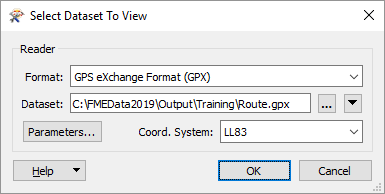
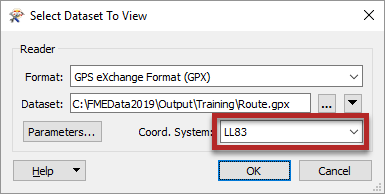
Chapter 5 Ex 4 clarity updates

Changed region(s): [[0.5299, 0.5567, 0.9662, 0.8041]]

diff --git a/DesktopBasic5BestPractice/5.Exercise4.md b/DesktopBasic5BestPractice/5.Exercise4.md
@@ -207,15 +207,15 @@ Also, notice that there are parameters for network costs - we'll be making use o
 ![](./Images/Img5.226.Ex4.SPFInitialRoute.png)
 <br><span style="font-style:italic;font-size:x-small">Map tiles by <a href="https://stamen.com">Stamen Design</a>, under <a href="https://creativecommons.org/licenses/by/3.0">CC-BY-3.0</a>. Data by <a href="http://openstreetmap.org">OpenStreetMap</a>, under <a href="http://creativecommons.org/licenses/by-sa/3.0">CC-BY-SA</a></span>.
 
-Of course, if all has not gone correctly, you must make use of your debugging skills to try and locate the error!
+If you don't see a path like this one, you must make use of your debugging skills to try and locate the error!
 
 
 <br>**8) Add AttributeValueMapper**
 <br>The result looks fine, but there are some things we are still uncertain about: for example, what if the route uses slower, residential roads? We can force the route to prefer arterial routes by applying a different cost to each road feature.
 
-The cost will depend on the road type. In essence, we are mapping road type to cost, and the way to do that is with an AttributeValueMapper transformer.
+The cost will depend on the road type. We need to map road type to cost, and the way to do that is with an AttributeValueMapper transformer.
 
-So, add an AttributeValueMapper transformer to the workspace, between the CompleteRoads feature type and the ShortestPathFinder:Network port:
+Add an AttributeValueMapper transformer to the workspace between the CompleteRoads feature type and the ShortestPathFinder:Network port:
 
 ![](./Images/Img5.227.Ex4.AVMOnCanvas.png)
 
@@ -302,7 +302,7 @@ The route is taking a longer path this time, and I can see a reason why that mig
 <br><br>To explain this, let's say I want to travel from A to B. There is a single residential road feature that starts at A and ends at B, with a route distance of 1.5 kilometres.
 <br><br>There is also a single arterial road feature that starts at A and ends at B. Rather extremely, it loops around the dark side of the moon with a route distance of 768,000 kilometres.
 <br><br>Currently our solution would choose the 768,000 kilometre trip, because it has a cost of "1" compared to the residential route cost of "3"!
-<br><br>Plainly the exercise data here is nowhere near as ridiculous, but it's equally plain that the route might not be the optimum until distance is factored back into the result.
+<br><br>Plainly, the exercise data here is nowhere near as ridiculous, but it's equally plain that the route might not be the optimum until distance is factored back into the result.
 </span>
 </td>
 </tr>
@@ -328,11 +328,11 @@ Re-run the translation to see if it makes a difference:
 ![](./Images/Img5.232.Ex4.DistanceWeighted.png)
 <br><span style="font-style:italic;font-size:x-small">Map tiles by <a href="https://stamen.com">Stamen Design</a>, under <a href="https://creativecommons.org/licenses/by/3.0">CC-BY-3.0</a>. Data by <a href="http://openstreetmap.org">OpenStreetMap</a>, under <a href="http://creativecommons.org/licenses/by-sa/3.0">CC-BY-SA</a></span>.
 
-Yes, it does, proving that the route was longer than it could be. Of course, the expression we've used is again very subjective and could be made more complex to give a better result (we could try a logarithmic scale to see what that produced).
+Yes, it does, proving that the route was longer than necessary. Of course, the expression we've used is subjective and could be made more complex to give a better result. For example, we could try a logarithmic scale instead to see what that produced.
 
 
 <br>**12) Edit AttributeManager**
-<br>Regardless of our expression, there's another last snag to cover... one-way streets. Currently, we have no solution in place to prevent us from driving the wrong direction.
+<br>Regardless of our expression, there's another last problem to investigate: one-way streets. Currently, we have no solution in place to prevent us from driving the wrong direction.
 
 Luckily each one-way street is flagged with an attribute and has its vertices ordered in the direction of permitted travel, so we know which way to avoid. Let's use this information to solve that problem.
 
@@ -373,15 +373,15 @@ Click OK to close that dialog. Back in the previous dialog, double-click where i
 
 Click OK again twice more to close these dialogs.
 
-What we've essentially done is say that if this is a one-way street, set a prohibitively high reverse cost, otherwise just set the usual forward cost.
+Now one-way streets have a prohibitively high reverse cost, while other streets just receive the usual forward cost.
 
 
 <br>**13) Apply Cost**
-<br>One last change. Check the ShortestPathFinder parameters and change the ReverseCost attribute from Cost to ReverseCost:
+<br>We have created a ReverseCost attribute, but we still need to use it. Check the ShortestPathFinder parameters and change the ReverseCost attribute from Cost to ReverseCost:
 
 ![](./Images/Img5.235.Ex4.SPFReverseCost.png)
 
-Now we're ready to go. Re-run the workspace. You could inspect the ShortestPathFinder:Path output port. However, if you want to see the **actual** output, you will have to drag and drop the .gpx file onto Visual Preview. You can then specify to read the data with an LL83 coordinate system, as that information is not stored in GPX files:
+Now we're ready to go. Re-run the workspace. You could inspect the ShortestPathFinder:Path output port to see the results. However, if you want to see the **actual** written output, you will have to drag and drop the .gpx file onto Visual Preview. You can then specify to read the data with an LL83 coordinate system, as that information is not stored in GPX files:
 
 ![](./Images/Img5.235b.Ex4.SpecifyCoordinateSystem.png)
 
@@ -389,7 +389,7 @@ In either case, you should see the correct output:
 
 ![](./Images/Img5.236.Ex4.FinalOutput.png)
 
-There is at least one change (above) caused by a route that previously traveled the wrong-way (west-east) along a street that is one way (east-west)!
+There is at one change (above) caused by a route that previously traveled the wrong-way (west-east) along a street that is one way (east-west)!
 
 
 <br>**14) Connect Schema**
@@ -416,7 +416,7 @@ Now run the workspace, upload the data to your GPS device, and you are ready to 
 <tr>
 <td style="border: 1px solid darkorange">
 <span style="font-family:serif; font-style:italic; font-size:larger">
-Not really advanced, but you did use Best Practice throughout, right? I mean, you have bookmarks and annotations where needed, and no overlapping connections? As well, did you remove the addtional GPX feature types we ended up not using? If not, well you might want to fix that!
+Not really advanced, but you did use Best Practice throughout, right? I mean, you have bookmarks and annotations where needed, and no overlapping connections? As well, did you remove the addtional GPX feature types we ended up not using? If not, well, you might want to fix that!
 </span>
 </td>
 </tr>
@@ -442,7 +442,7 @@ By completing this exercise you proved you know how to:
 <ul><li>Create and use an FME database connection</li>
 <li>Create a prototype FME workspace using a variety of transformers</li>
 <li>Use debugging techniques to find any problems encountered in an exercise</li>
-<li>Use a good style for developing workspaces</li></ul>
+<li>Use good style for developing workspaces</li></ul>
 </span>
 </td>
 </tr>
